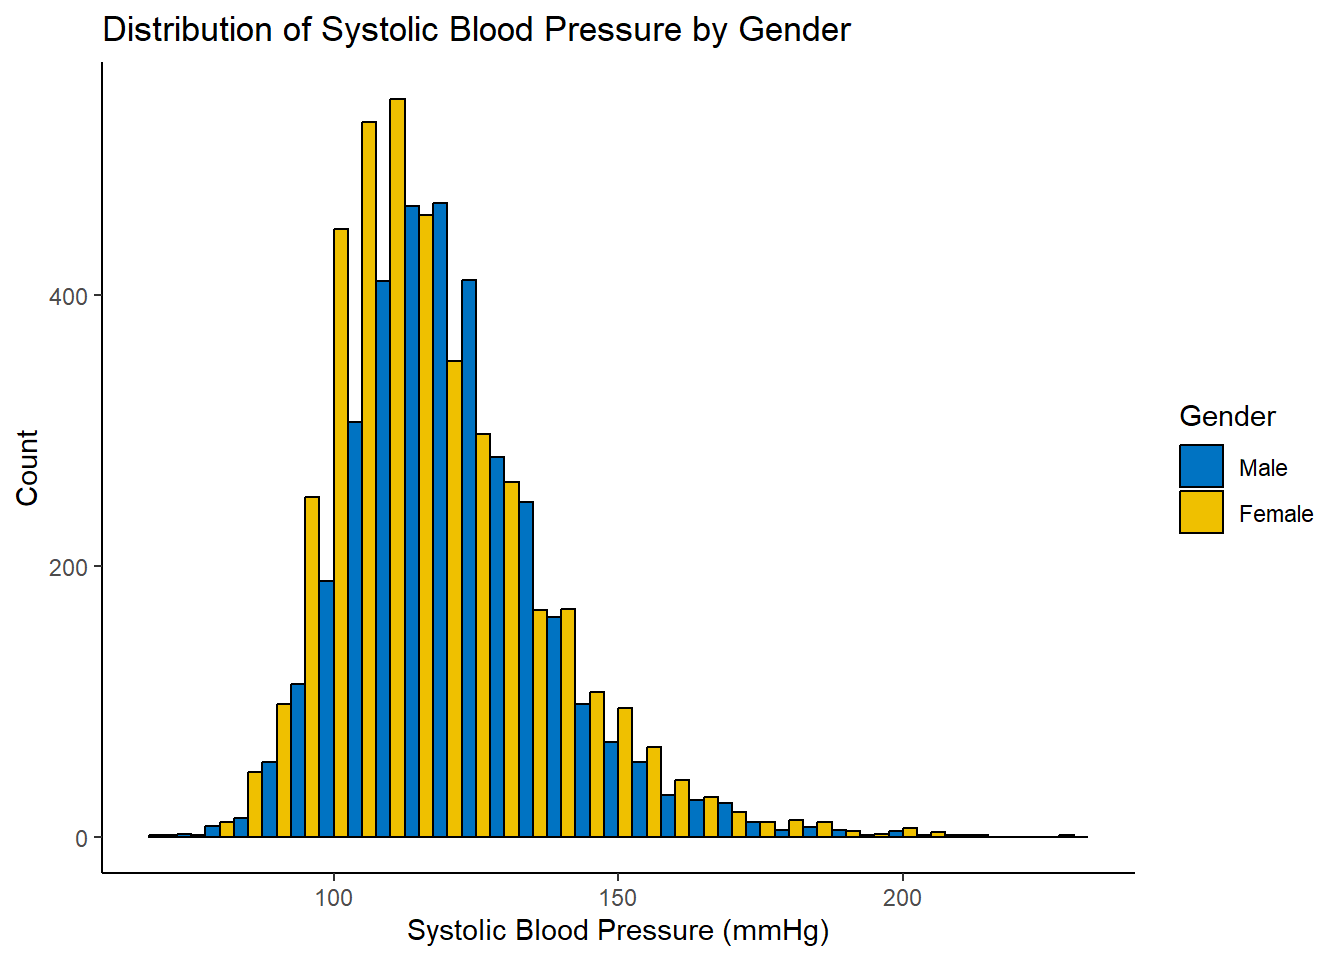
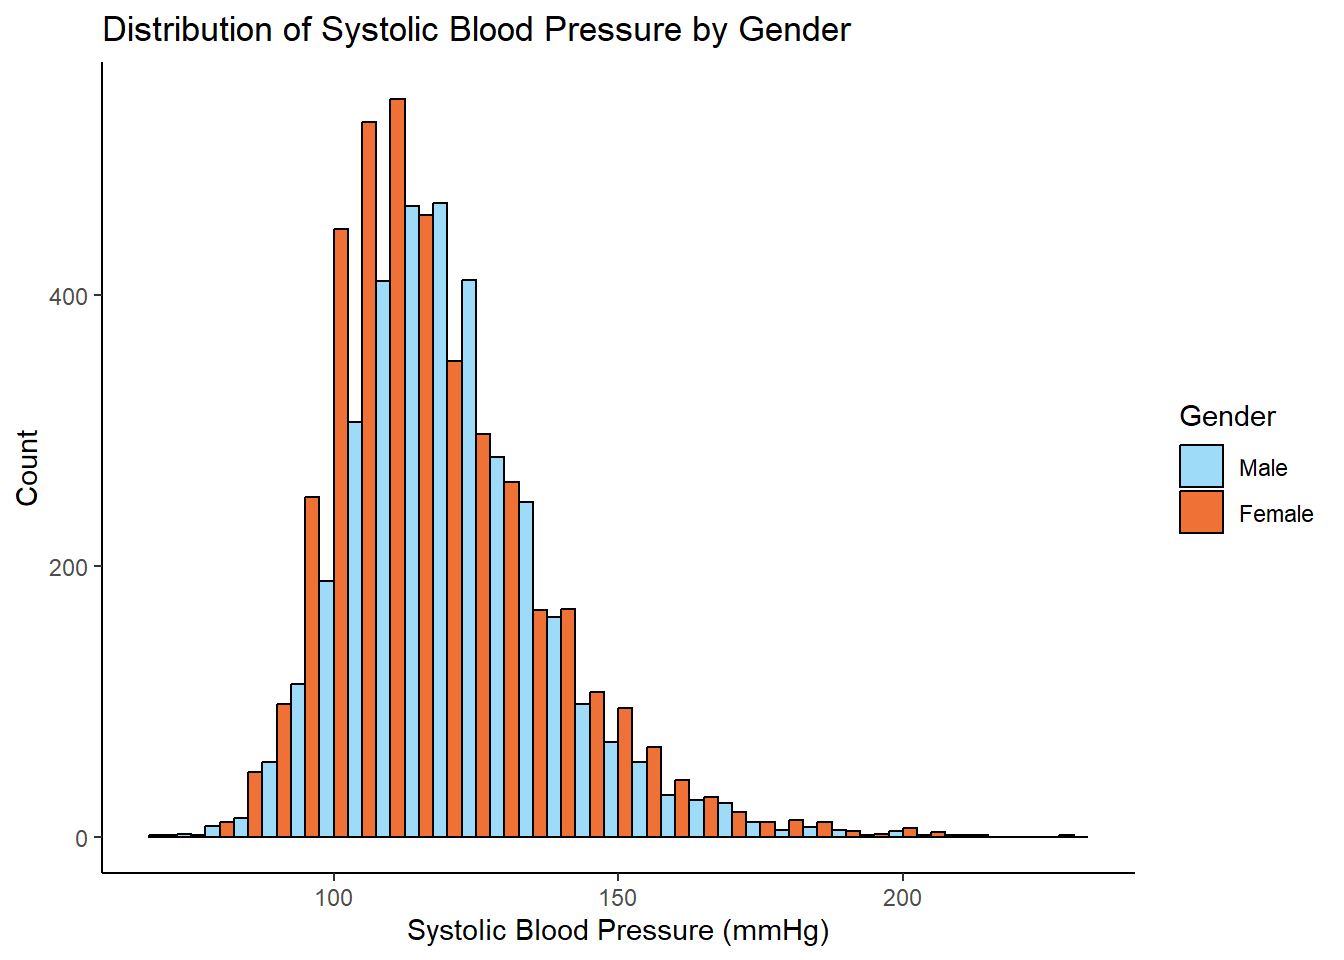
Modification

Changed region(s): [[0.1562, 0.0938, 0.625, 0.875], [0.875, 0.4375, 0.9062, 0.5625], [0.6562, 0.8438, 0.6875, 0.875]]

diff --git a/Final project/docs/Final_project.html b/Final project/docs/Final_project.html
@@ -135,6 +135,12 @@ pre > code.sourceCode > span > a:first-child::before { text-decoration: underlin
   <li><a href="#systolic-blood-pressure" id="toc-systolic-blood-pressure" class="nav-link" data-scroll-target="#systolic-blood-pressure">2.2 Systolic Blood Pressure</a></li>
   <li><a href="#diastolic-blood-pressure" id="toc-diastolic-blood-pressure" class="nav-link" data-scroll-target="#diastolic-blood-pressure">2.3 Diastolic Blood Pressure</a></li>
   </ul></li>
+  <li><a href="#visualization" id="toc-visualization" class="nav-link" data-scroll-target="#visualization">3. Visualization</a>
+  <ul class="collapse">
+  <li><a href="#distribution-of-systolic-blood-pressure-stratified-by-gender" id="toc-distribution-of-systolic-blood-pressure-stratified-by-gender" class="nav-link" data-scroll-target="#distribution-of-systolic-blood-pressure-stratified-by-gender">3.1 Distribution of Systolic Blood Pressure stratified by Gender</a></li>
+  <li><a href="#distribution-of-sodium-intake-stratified-by-gender" id="toc-distribution-of-sodium-intake-stratified-by-gender" class="nav-link" data-scroll-target="#distribution-of-sodium-intake-stratified-by-gender">3.2 Distribution of Sodium Intake stratified by Gender</a></li>
+  <li><a href="#relationship-between-sodium-intake-and-diastolic-blood-pressure" id="toc-relationship-between-sodium-intake-and-diastolic-blood-pressure" class="nav-link" data-scroll-target="#relationship-between-sodium-intake-and-diastolic-blood-pressure">3.2 Relationship between Sodium Intake and Diastolic Blood Pressure</a></li>
+  </ul></li>
   </ul>
 </nav>
     </div>
@@ -737,13 +743,20 @@ Note
 </div>
 </div>
 <p><a href="dibp_model_summaries.html">View Model Summaries in <code>dibp_model_summaries.html</code></a></p>
+</section>
+</section>
+<section id="visualization" class="level2">
+<h2 class="anchored" data-anchor-id="visualization">3. Visualization</h2>
+<section id="distribution-of-systolic-blood-pressure-stratified-by-gender" class="level3">
+<h3 class="anchored" data-anchor-id="distribution-of-systolic-blood-pressure-stratified-by-gender">3.1 Distribution of Systolic Blood Pressure stratified by Gender</h3>
+<p>Using <code>geom_histogram</code></p>
 <div class="cell">
 <details class="code-fold">
 <summary>Code</summary>
 <div class="sourceCode cell-code" id="cb10"><pre class="sourceCode r code-with-copy"><code class="sourceCode r"><span id="cb10-1"><a href="#cb10-1" aria-hidden="true" tabindex="-1"></a><span class="co"># Visualization 1: Distribution of Systolic Blood Pressure (sybp) by Gender</span></span>
 <span id="cb10-2"><a href="#cb10-2" aria-hidden="true" tabindex="-1"></a><span class="fu">ggplot</span>(cleaned_data, <span class="fu">aes</span>(<span class="at">x =</span> sybp, <span class="at">fill =</span> RIAGENDR)) <span class="sc">+</span></span>
 <span id="cb10-3"><a href="#cb10-3" aria-hidden="true" tabindex="-1"></a>  <span class="fu">geom_histogram</span>(<span class="at">binwidth =</span> <span class="dv">5</span>, <span class="at">position =</span> <span class="st">"dodge"</span>, <span class="at">color =</span> <span class="st">"black"</span>) <span class="sc">+</span></span>
-<span id="cb10-4"><a href="#cb10-4" aria-hidden="true" tabindex="-1"></a>  <span class="fu">scale_fill_manual</span>(<span class="at">values =</span> <span class="fu">c</span>(<span class="st">"#0073C2FF"</span>, <span class="st">"#EFC000FF"</span>)) <span class="sc">+</span></span>
+<span id="cb10-4"><a href="#cb10-4" aria-hidden="true" tabindex="-1"></a>  <span class="fu">scale_fill_manual</span>(<span class="at">values =</span> <span class="fu">c</span>(<span class="st">"#9edbf9"</span>, <span class="st">"#ef7135"</span>)) <span class="sc">+</span></span>
 <span id="cb10-5"><a href="#cb10-5" aria-hidden="true" tabindex="-1"></a>  <span class="fu">labs</span>(</span>
 <span id="cb10-6"><a href="#cb10-6" aria-hidden="true" tabindex="-1"></a>    <span class="at">title =</span> <span class="st">"Distribution of Systolic Blood Pressure by Gender"</span>,</span>
 <span id="cb10-7"><a href="#cb10-7" aria-hidden="true" tabindex="-1"></a>    <span class="at">x =</span> <span class="st">"Systolic Blood Pressure (mmHg)"</span>,</span>
@@ -752,10 +765,6 @@ Note
 <span id="cb10-10"><a href="#cb10-10" aria-hidden="true" tabindex="-1"></a>  ) <span class="sc">+</span></span>
 <span id="cb10-11"><a href="#cb10-11" aria-hidden="true" tabindex="-1"></a>  <span class="fu">theme_classic</span>()</span></code><button title="Copy to Clipboard" class="code-copy-button"><i class="bi"></i></button></pre></div>
 </details>
-<div class="cell-output cell-output-stderr">
-<pre><code>Warning: Removed 4415 rows containing non-finite outside the scale range
-(`stat_bin()`).</code></pre>
-</div>
 <div class="cell-output-display">
 <div>
 <figure class="figure">
@@ -764,24 +773,34 @@ Note
 </div>
 </div>
 </div>
+</section>
+<section id="distribution-of-sodium-intake-stratified-by-gender" class="level3">
+<h3 class="anchored" data-anchor-id="distribution-of-sodium-intake-stratified-by-gender">3.2 Distribution of Sodium Intake stratified by Gender</h3>
+<p>Using <code>geom_boxplot</code> to create box plot and <code>geom_text</code> to label</p>
 <div class="cell">
 <details class="code-fold">
 <summary>Code</summary>
-<div class="sourceCode cell-code" id="cb12"><pre class="sourceCode r code-with-copy"><code class="sourceCode r"><span id="cb12-1"><a href="#cb12-1" aria-hidden="true" tabindex="-1"></a><span class="co"># Visualization 2: Boxplot of Sodium Intake (DR1TSODI) by Gender</span></span>
-<span id="cb12-2"><a href="#cb12-2" aria-hidden="true" tabindex="-1"></a><span class="fu">ggplot</span>(cleaned_data, <span class="fu">aes</span>(<span class="at">x =</span> RIAGENDR, <span class="at">y =</span> DR1TSODI, <span class="at">fill =</span> RIAGENDR)) <span class="sc">+</span></span>
-<span id="cb12-3"><a href="#cb12-3" aria-hidden="true" tabindex="-1"></a>  <span class="fu">geom_boxplot</span>() <span class="sc">+</span></span>
-<span id="cb12-4"><a href="#cb12-4" aria-hidden="true" tabindex="-1"></a>  <span class="fu">scale_fill_manual</span>(<span class="at">values =</span> <span class="fu">c</span>(<span class="st">"#0073C2FF"</span>, <span class="st">"#EFC000FF"</span>)) <span class="sc">+</span></span>
-<span id="cb12-5"><a href="#cb12-5" aria-hidden="true" tabindex="-1"></a>  <span class="fu">labs</span>(</span>
-<span id="cb12-6"><a href="#cb12-6" aria-hidden="true" tabindex="-1"></a>    <span class="at">title =</span> <span class="st">"Sodium Intake by Gender"</span>,</span>
-<span id="cb12-7"><a href="#cb12-7" aria-hidden="true" tabindex="-1"></a>    <span class="at">x =</span> <span class="st">"Gender"</span>,</span>
-<span id="cb12-8"><a href="#cb12-8" aria-hidden="true" tabindex="-1"></a>    <span class="at">y =</span> <span class="st">"Sodium Intake (mg)"</span></span>
-<span id="cb12-9"><a href="#cb12-9" aria-hidden="true" tabindex="-1"></a>  ) <span class="sc">+</span></span>
-<span id="cb12-10"><a href="#cb12-10" aria-hidden="true" tabindex="-1"></a>  <span class="fu">theme_classic</span>()</span></code><button title="Copy to Clipboard" class="code-copy-button"><i class="bi"></i></button></pre></div>
+<div class="sourceCode cell-code" id="cb11"><pre class="sourceCode r code-with-copy"><code class="sourceCode r"><span id="cb11-1"><a href="#cb11-1" aria-hidden="true" tabindex="-1"></a>medians <span class="ot">&lt;-</span> cleaned_data <span class="sc">%&gt;%</span></span>
+<span id="cb11-2"><a href="#cb11-2" aria-hidden="true" tabindex="-1"></a>  <span class="fu">group_by</span>(RIAGENDR) <span class="sc">%&gt;%</span></span>
+<span id="cb11-3"><a href="#cb11-3" aria-hidden="true" tabindex="-1"></a>  <span class="fu">summarize</span>(<span class="at">median_sodium =</span> <span class="fu">median</span>(DR1TSODI, <span class="at">na.rm =</span> <span class="cn">TRUE</span>))</span>
+<span id="cb11-4"><a href="#cb11-4" aria-hidden="true" tabindex="-1"></a></span>
+<span id="cb11-5"><a href="#cb11-5" aria-hidden="true" tabindex="-1"></a><span class="co"># Visualization 2: Boxplot of Sodium Intake (DR1TSODI) by Gender</span></span>
+<span id="cb11-6"><a href="#cb11-6" aria-hidden="true" tabindex="-1"></a><span class="fu">ggplot</span>(cleaned_data, <span class="fu">aes</span>(<span class="at">x =</span> RIAGENDR, <span class="at">y =</span> DR1TSODI, <span class="at">fill =</span> RIAGENDR)) <span class="sc">+</span></span>
+<span id="cb11-7"><a href="#cb11-7" aria-hidden="true" tabindex="-1"></a>  <span class="fu">geom_boxplot</span>() <span class="sc">+</span></span>
+<span id="cb11-8"><a href="#cb11-8" aria-hidden="true" tabindex="-1"></a>  <span class="fu">scale_fill_manual</span>(<span class="at">values =</span> <span class="fu">c</span>(<span class="st">"#94f0ff"</span>, <span class="st">"#ffa394"</span>)) <span class="sc">+</span></span>
+<span id="cb11-9"><a href="#cb11-9" aria-hidden="true" tabindex="-1"></a>  <span class="fu">labs</span>(</span>
+<span id="cb11-10"><a href="#cb11-10" aria-hidden="true" tabindex="-1"></a>    <span class="at">title =</span> <span class="st">"Sodium Intake by Gender"</span>,</span>
+<span id="cb11-11"><a href="#cb11-11" aria-hidden="true" tabindex="-1"></a>    <span class="at">x =</span> <span class="st">"Gender"</span>,</span>
+<span id="cb11-12"><a href="#cb11-12" aria-hidden="true" tabindex="-1"></a>    <span class="at">y =</span> <span class="st">"Sodium Intake (mg)"</span></span>
+<span id="cb11-13"><a href="#cb11-13" aria-hidden="true" tabindex="-1"></a>  ) <span class="sc">+</span></span>
+<span id="cb11-14"><a href="#cb11-14" aria-hidden="true" tabindex="-1"></a>  <span class="fu">geom_text</span>(</span>
+<span id="cb11-15"><a href="#cb11-15" aria-hidden="true" tabindex="-1"></a>    <span class="at">data =</span> medians,</span>
+<span id="cb11-16"><a href="#cb11-16" aria-hidden="true" tabindex="-1"></a>    <span class="fu">aes</span>(<span class="at">x =</span> RIAGENDR, <span class="at">y =</span> median_sodium, <span class="at">label =</span> <span class="fu">round</span>(median_sodium, <span class="dv">1</span>)),</span>
+<span id="cb11-17"><a href="#cb11-17" aria-hidden="true" tabindex="-1"></a>    <span class="at">vjust =</span> <span class="sc">-</span><span class="fl">0.5</span>,</span>
+<span id="cb11-18"><a href="#cb11-18" aria-hidden="true" tabindex="-1"></a>    <span class="at">size =</span> <span class="dv">3</span></span>
+<span id="cb11-19"><a href="#cb11-19" aria-hidden="true" tabindex="-1"></a>  ) <span class="sc">+</span></span>
+<span id="cb11-20"><a href="#cb11-20" aria-hidden="true" tabindex="-1"></a>  <span class="fu">theme_classic</span>()</span></code><button title="Copy to Clipboard" class="code-copy-button"><i class="bi"></i></button></pre></div>
 </details>
-<div class="cell-output cell-output-stderr">
-<pre><code>Warning: Removed 5239 rows containing non-finite outside the scale range
-(`stat_boxplot()`).</code></pre>
-</div>
 <div class="cell-output-display">
 <div>
 <figure class="figure">
@@ -790,37 +809,29 @@ Note
 </div>
 </div>
 </div>
+</section>
+<section id="relationship-between-sodium-intake-and-diastolic-blood-pressure" class="level3">
+<h3 class="anchored" data-anchor-id="relationship-between-sodium-intake-and-diastolic-blood-pressure">3.2 Relationship between Sodium Intake and Diastolic Blood Pressure</h3>
+<p>Using <code>geom_point</code> to create scatter plot</p>
 <div class="cell">
 <details class="code-fold">
 <summary>Code</summary>
-<div class="sourceCode cell-code" id="cb14"><pre class="sourceCode r code-with-copy"><code class="sourceCode r"><span id="cb14-1"><a href="#cb14-1" aria-hidden="true" tabindex="-1"></a><span class="co"># Visualization 3: Relationship between BMI (BMXBMI) and Systolic Blood Pressure (sybp)</span></span>
-<span id="cb14-2"><a href="#cb14-2" aria-hidden="true" tabindex="-1"></a><span class="fu">ggplot</span>(cleaned_data, <span class="fu">aes</span>(<span class="at">x =</span> BMXBMI, <span class="at">y =</span> sybp, <span class="at">color =</span> RIDRETH3)) <span class="sc">+</span></span>
-<span id="cb14-3"><a href="#cb14-3" aria-hidden="true" tabindex="-1"></a>  <span class="fu">geom_point</span>(<span class="at">alpha =</span> <span class="fl">0.7</span>) <span class="sc">+</span></span>
-<span id="cb14-4"><a href="#cb14-4" aria-hidden="true" tabindex="-1"></a>  <span class="fu">geom_smooth</span>(<span class="at">method =</span> <span class="st">"lm"</span>, <span class="at">se =</span> <span class="cn">FALSE</span>, <span class="at">color =</span> <span class="st">"black"</span>) <span class="sc">+</span></span>
-<span id="cb14-5"><a href="#cb14-5" aria-hidden="true" tabindex="-1"></a>  <span class="fu">scale_color_manual</span>(<span class="at">values =</span> <span class="fu">c</span>(<span class="st">"#E41A1C"</span>, <span class="st">"#377EB8"</span>, <span class="st">"#4DAF4A"</span>, <span class="st">"#FF7F00"</span>, <span class="st">"#984EA3"</span>)) <span class="sc">+</span></span>
-<span id="cb14-6"><a href="#cb14-6" aria-hidden="true" tabindex="-1"></a>  <span class="fu">labs</span>(</span>
-<span id="cb14-7"><a href="#cb14-7" aria-hidden="true" tabindex="-1"></a>    <span class="at">title =</span> <span class="st">"Relationship between BMI and Systolic Blood Pressure by Race"</span>,</span>
-<span id="cb14-8"><a href="#cb14-8" aria-hidden="true" tabindex="-1"></a>    <span class="at">x =</span> <span class="st">"Body Mass Index (kg/m²)"</span>,</span>
-<span id="cb14-9"><a href="#cb14-9" aria-hidden="true" tabindex="-1"></a>    <span class="at">y =</span> <span class="st">"Systolic Blood Pressure (mmHg)"</span>,</span>
-<span id="cb14-10"><a href="#cb14-10" aria-hidden="true" tabindex="-1"></a>    <span class="at">color =</span> <span class="st">"Race"</span></span>
-<span id="cb14-11"><a href="#cb14-11" aria-hidden="true" tabindex="-1"></a>  ) <span class="sc">+</span></span>
-<span id="cb14-12"><a href="#cb14-12" aria-hidden="true" tabindex="-1"></a>  <span class="fu">theme_minimal</span>()</span></code><button title="Copy to Clipboard" class="code-copy-button"><i class="bi"></i></button></pre></div>
+<div class="sourceCode cell-code" id="cb12"><pre class="sourceCode r code-with-copy"><code class="sourceCode r"><span id="cb12-1"><a href="#cb12-1" aria-hidden="true" tabindex="-1"></a><span class="co"># Visualization 3: Relationship between Sodium Intake and Diastolic Blood Pressure (dibp)</span></span>
+<span id="cb12-2"><a href="#cb12-2" aria-hidden="true" tabindex="-1"></a><span class="fu">ggplot</span>(cleaned_data, <span class="fu">aes</span>(<span class="at">x =</span> DR1TSODI, <span class="at">y =</span> dibp, <span class="at">color =</span> RIDRETH3)) <span class="sc">+</span></span>
+<span id="cb12-3"><a href="#cb12-3" aria-hidden="true" tabindex="-1"></a>  <span class="fu">geom_point</span>(<span class="at">alpha =</span> <span class="fl">0.7</span>) <span class="sc">+</span></span>
+<span id="cb12-4"><a href="#cb12-4" aria-hidden="true" tabindex="-1"></a>  <span class="fu">scale_color_manual</span>(<span class="at">values =</span> <span class="fu">c</span>(<span class="st">"#009E73"</span>, <span class="st">"#F0E442"</span>, <span class="st">"#0072B2"</span>, <span class="st">"#D55E00"</span>, <span class="st">"#CC79A7"</span>)) <span class="sc">+</span></span>
+<span id="cb12-5"><a href="#cb12-5" aria-hidden="true" tabindex="-1"></a>  <span class="fu">labs</span>(</span>
+<span id="cb12-6"><a href="#cb12-6" aria-hidden="true" tabindex="-1"></a>    <span class="at">title =</span> <span class="st">"Relationship between Sodium Intake and Diastolic Blood Pressure by Race"</span>,</span>
+<span id="cb12-7"><a href="#cb12-7" aria-hidden="true" tabindex="-1"></a>    <span class="at">x =</span> <span class="st">"Sodium Intake (mg)"</span>,</span>
+<span id="cb12-8"><a href="#cb12-8" aria-hidden="true" tabindex="-1"></a>    <span class="at">y =</span> <span class="st">"Diastolic Blood Pressure (mmHg)"</span>,</span>
+<span id="cb12-9"><a href="#cb12-9" aria-hidden="true" tabindex="-1"></a>    <span class="at">color =</span> <span class="st">"Race"</span></span>
+<span id="cb12-10"><a href="#cb12-10" aria-hidden="true" tabindex="-1"></a>  ) <span class="sc">+</span></span>
+<span id="cb12-11"><a href="#cb12-11" aria-hidden="true" tabindex="-1"></a>  <span class="fu">theme_classic</span>()</span></code><button title="Copy to Clipboard" class="code-copy-button"><i class="bi"></i></button></pre></div>
 </details>
-<div class="cell-output cell-output-stderr">
-<pre><code>`geom_smooth()` using formula = 'y ~ x'</code></pre>
-</div>
-<div class="cell-output cell-output-stderr">
-<pre><code>Warning: Removed 4480 rows containing non-finite outside the scale range
-(`stat_smooth()`).</code></pre>
-</div>
-<div class="cell-output cell-output-stderr">
-<pre><code>Warning: Removed 4480 rows containing missing values or values outside the scale range
-(`geom_point()`).</code></pre>
-</div>
 <div class="cell-output-display">
 <div>
 <figure class="figure">
-<p><img src="Final_project_files/figure-html/unnamed-chunk-1-1.png" class="img-fluid figure-img" width="672"></p>
+<p><img src="Final_project_files/figure-html/visualization 3-1.png" class="img-fluid figure-img" width="672"></p>
 </figure>
 </div>
 </div>

diff --git a/Final project/docs/Dashboard.html b/Final project/docs/Dashboard.html
@@ -313,7 +313,7 @@ pre > code.sourceCode > span > a:first-child::before { text-decoration: underlin
 <span id="cb13-43"><a href="#cb13-43" aria-hidden="true" tabindex="-1"></a>})</span></code><button title="Copy to Clipboard" class="code-copy-button"><i class="bi"></i></button></pre></div>
 </details>
 <div class="cell-output-display">
-<div class="shiny-plot-output html-fill-item" id="outa6e954dc64832e74" style="width:100%;height:400px;"></div>
+<div class="shiny-plot-output html-fill-item" id="outf84fe1d25e0f44f7" style="width:100%;height:400px;"></div>
 </div>
 </div>
 
